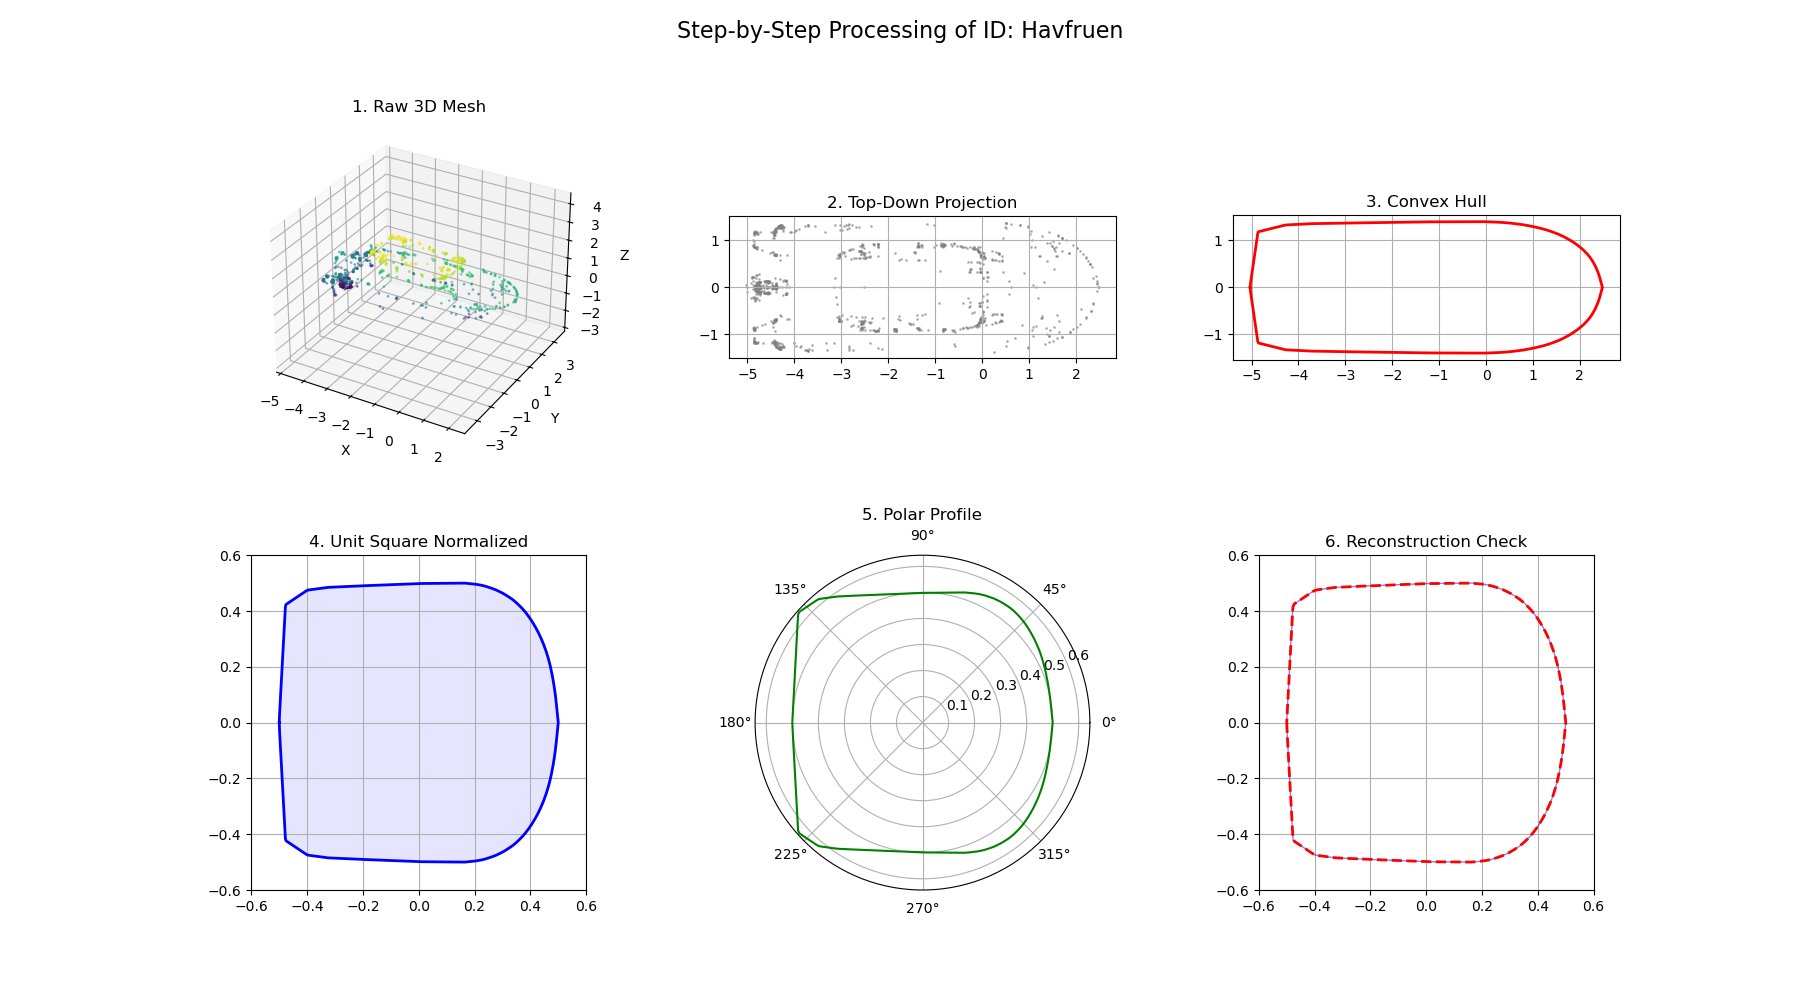
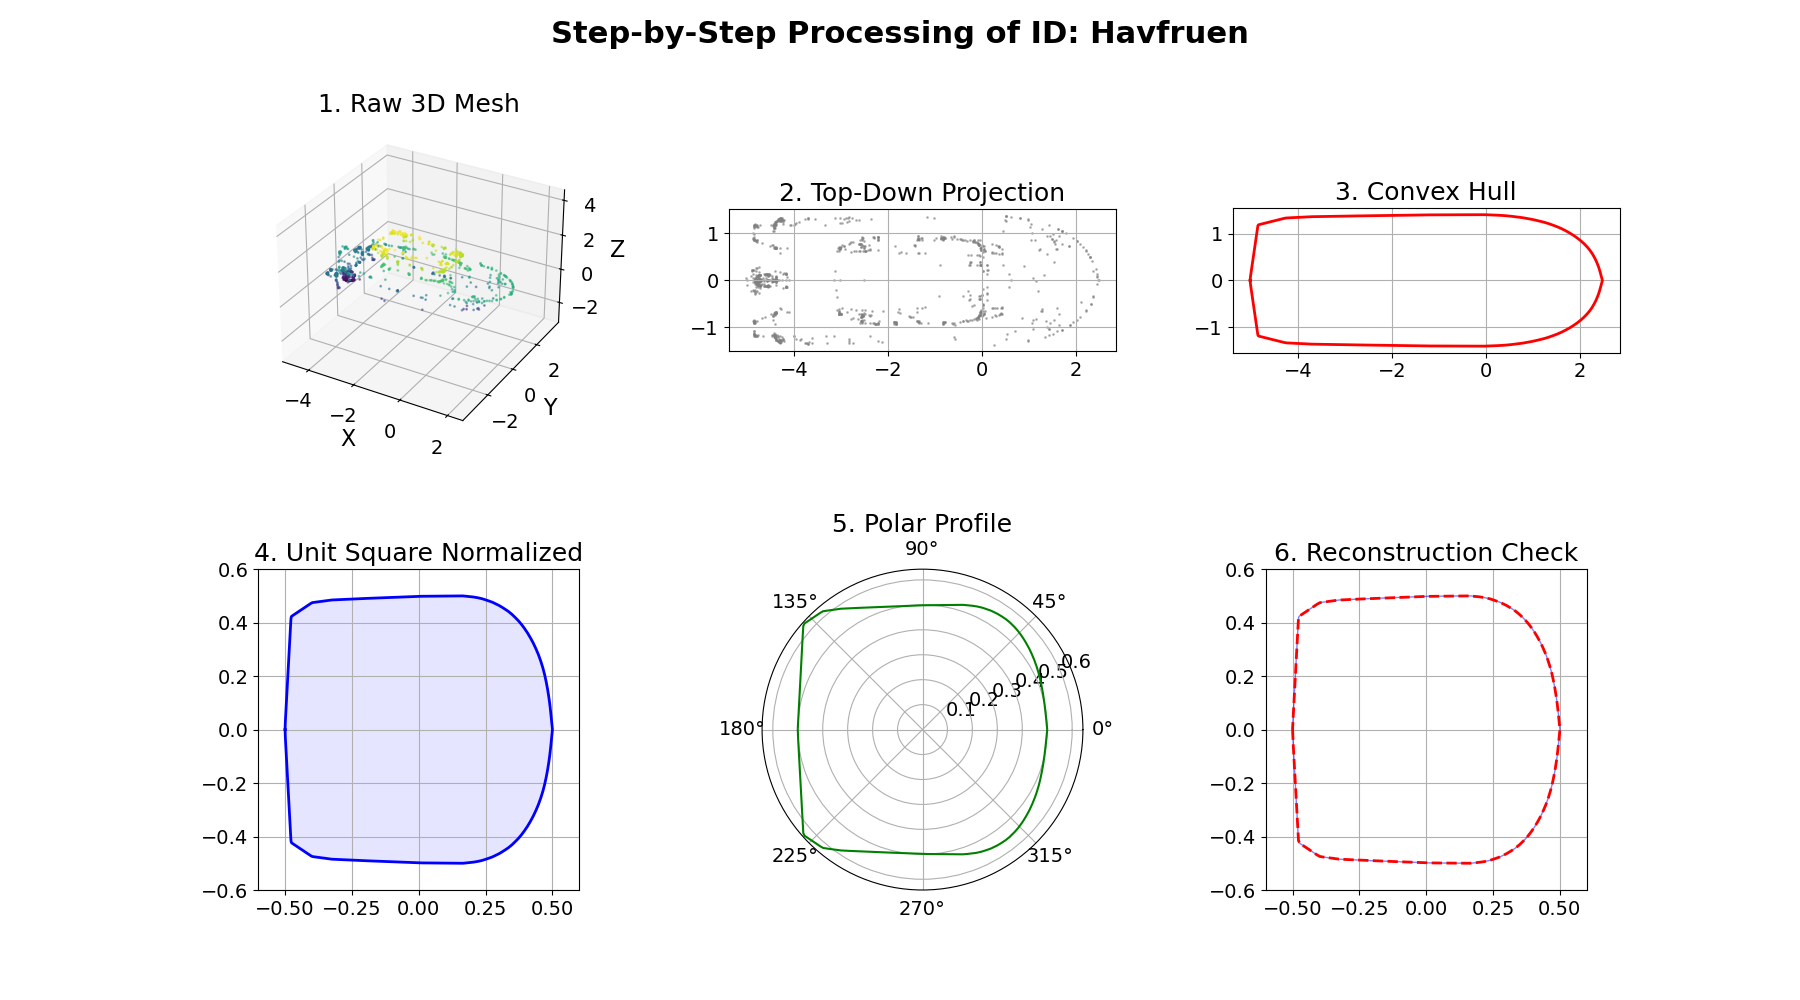
Increase debug plot font size Havfruen

diff --git a/src/extent_model/process_havfruen.py b/src/extent_model/process_havfruen.py
@@ -50,9 +50,18 @@ def generate_debug_plot(boat_id, mesh_vertices, points_2d, hull_points, aligned_
     """
     Generates a 6-panel debug plot.
     """
+    plt.rcParams.update({
+        'font.size': 16,
+        'axes.titlesize': 18,
+        'axes.labelsize': 16,
+        'xtick.labelsize': 14,
+        'ytick.labelsize': 14,
+        'legend.fontsize': 14
+    })
+    
     fig = plt.figure(figsize=(18, 10))
-    plt.subplots_adjust(hspace=0.3, wspace=0.3)
-    fig.suptitle(f"Step-by-Step Processing of ID: {boat_id}", fontsize=16)
+    plt.subplots_adjust(hspace=0.4, wspace=0.3)
+    fig.suptitle(f"Step-by-Step Processing of ID: {boat_id}", fontsize=22, fontweight='bold')
 
     # --- STEP 1: RAW 3D MESH ---
     ax1 = fig.add_subplot(2, 3, 1, projection='3d')
@@ -96,12 +105,14 @@ def generate_debug_plot(boat_id, mesh_vertices, points_2d, hull_points, aligned_
     ax4.grid(True)
     ax4.set_xlim(-0.6, 0.6)
     ax4.set_ylim(-0.6, 0.6)
+    # ax4.legend(loc='lower right')
 
     # --- STEP 5: POLAR PROFILE ---
     ax5 = fig.add_subplot(2, 3, 5, projection='polar')
     target_angles = np.linspace(-np.pi, np.pi, len(radii), endpoint=False)
     ax5.plot(target_angles, radii, 'g-', label='Radii')
     ax5.set_title("5. Polar Profile")
+    # ax5.legend(loc='lower left', bbox_to_anchor=(0.9, 1.0))
 
     # --- STEP 6: RECONSTRUCTION CHECK ---
     ax6 = fig.add_subplot(2, 3, 6)
@@ -117,6 +128,7 @@ def generate_debug_plot(boat_id, mesh_vertices, points_2d, hull_points, aligned_
     ax6.grid(True)
     ax6.set_xlim(-0.6, 0.6)
     ax6.set_ylim(-0.6, 0.6)
+    # ax6.legend(loc='lower right')
 
     output_file = os.path.join(output_dir, f"debug_{boat_id}.png")
     plt.savefig(output_file)
@@ -212,7 +224,9 @@ def main():
     ax.fill(x_real, y_real, alpha=0.3, fc='blue')
     ax.plot(x_real, y_real, color='blue', lw=1.5)
     ax.plot(0, 0, 'go', markersize=4)
-    ax.set_title(f"ID: {boat_id}\nL={original_length:.1f}, W={original_width:.1f}", fontsize=10)
+    ax.set_title(f"ID: {boat_id}\nL={original_length:.1f}, W={original_width:.1f}", fontsize=16)
+    ax.set_xlabel("X (m)", fontsize=14)
+    ax.set_ylabel("Y (m)", fontsize=14)
     ax.set_aspect('equal')
     ax.grid(True, linestyle=':', alpha=0.6)
     
